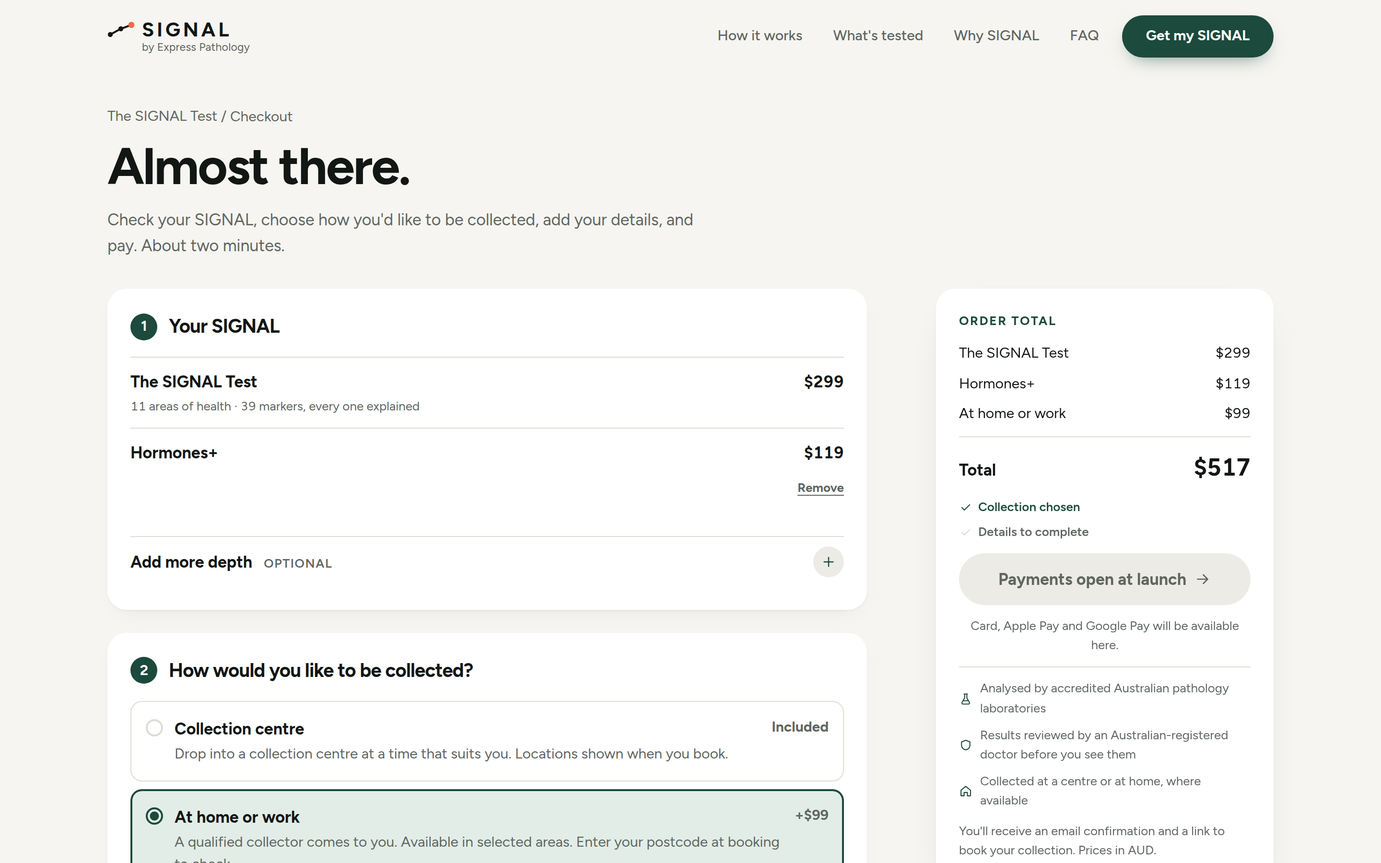
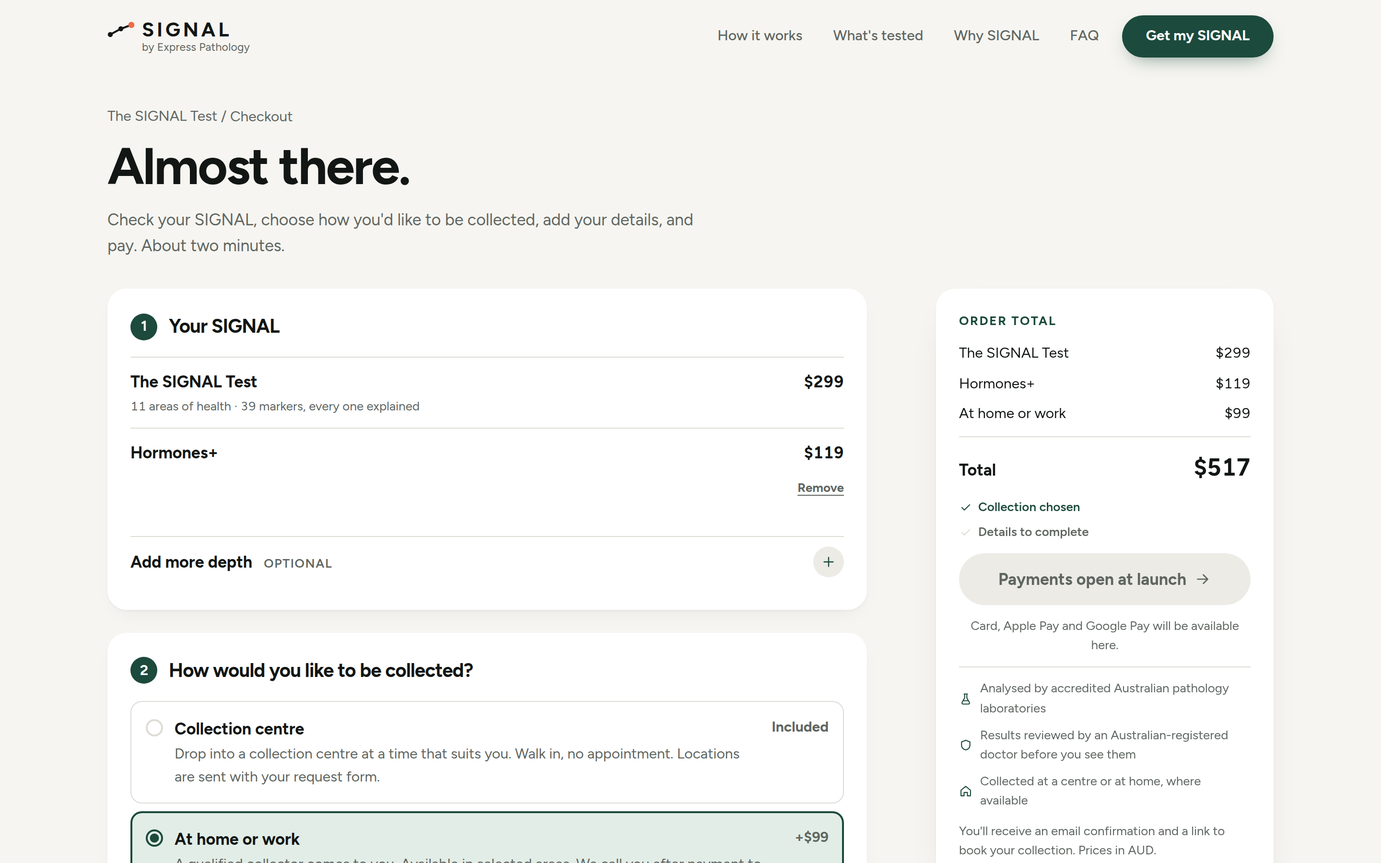
Launch operations: walk-in collection, internal order emails, legal entity
- Collection is walk-in at launch: participating centres accept the request
  form without an appointment, so the order page, confirmation email,
  journey steps, FAQs, quiz and /men copy now send customers to the
  Express Pathology locations page instead of promising a booking link.
  Home or workplace visits are arranged by phone within one business day.
  NEXT_PUBLIC_BOOKING_URL still switches the "Book my collection" CTA on
  if a booking system is introduced.
- Every paid order emails an internal copy to ORDER_NOTIFY_EMAIL (falls
  back to OPS_ALERT_EMAIL) with patient details, items, collection method,
  request-form status, a Stripe link and the form attached. Home visits
  and held forms are flagged in the subject as actions.
- Legal entity: Express Pathology Pty Ltd, ABN from the ABR, support and
  privacy email, New South Wales. Registered address still to fill.

Claude-Session: https://claude.ai/code/session_01CjgrVakohwrtTz92CBzn2N

Changed region(s): [[0.0938, 0.8711, 0.625, 1.0]]

diff --git a/src/lib/email/order-confirmation.ts b/src/lib/email/order-confirmation.ts
@@ -1,5 +1,5 @@
 import { getCollectionMethod } from "@/config/collection";
-import { bookingUrlFor } from "@/config/booking";
+import { bookingUrlFor, walkIn } from "@/config/booking";
 import { legalEntity } from "@/config/legal/entity";
 import { pathologyConfig } from "@/config/pathology";
 import { postPurchaseOffer } from "@/config/retest-offer";
@@ -22,7 +22,7 @@ export interface ConfirmationInput {
 
 const esc = (s: string) => s.replace(/[&<>"]/g, (c) => ({ "&": "&amp;", "<": "&lt;", ">": "&gt;", '"': "&quot;" })[c]!);
 
-/** Plain, short, no images: what was bought, how to book, the retesting offer link, what happens next. */
+/** Plain, short, no images: what was bought, where to get collected, the retesting offer link, what happens next. */
 export function orderConfirmationEmail(i: ConfirmationInput): { subject: string; html: string; text: string } {
   const booking = bookingUrlFor(i.orderId);
   const collection = i.collectionMethodId ? getCollectionMethod(i.collectionMethodId).name : "Collection";
@@ -35,7 +35,11 @@ export function orderConfirmationEmail(i: ConfirmationInput): { subject: string;
     i.formAttached || i.formUrl
       ? `1. Your pathology request form is ${i.formAttached ? "attached to this email" : "ready to download"}${i.formUrl ? ` (${i.formUrl})` : ""}. ${pathologyConfig.collection.bring}`
       : "1. Our team is preparing your pathology request form and will email it to you within one business day. You need it before your collection.",
-    `2. Book your ${collection.toLowerCase()}.${booking ? ` ${booking}` : " We'll email your booking link shortly."}`,
+    booking
+      ? `2. Book your ${collection.toLowerCase()}. ${booking}`
+      : i.collectionMethodId === "mobile"
+        ? `2. ${walkIn.mobile.note}`
+        : `2. ${walkIn.centre.note} Find your nearest centre: ${walkIn.locationsUrl}`,
     fasting ? `3. Before collection: ${fasting}` : "",
     `${fasting ? 4 : 3}. Your results and the doctor's review arrive in your dashboard in around 7 days.`,
   ].filter(Boolean);
@@ -54,7 +58,7 @@ export function orderConfirmationEmail(i: ConfirmationInput): { subject: string;
     <table style="width:100%;border-collapse:collapse;margin:0 0 20px">${i.lines.map((l) => `<tr><td style="padding:6px 0;border-top:1px solid #dedcd5">${esc(l.label)}</td><td style="padding:6px 0;border-top:1px solid #dedcd5;text-align:right">${formatAUD(l.priceCents)}</td></tr>`).join("")}<tr><td style="padding:8px 0;border-top:1px solid #121614;font-weight:700">Paid</td><td style="padding:8px 0;border-top:1px solid #121614;text-align:right;font-weight:700">${formatAUD(i.amountCents)}</td></tr></table>
     <h2 style="font-size:18px;margin:0 0 8px">What happens next</h2>
     <ol style="margin:0 0 20px;padding-left:20px;color:#121614">${steps.map((s) => `<li style="margin:0 0 8px">${esc(s.replace(/^\d+\. /, ""))}</li>`).join("")}</ol>
-    ${booking ? `<p style="margin:0 0 20px"><a href="${esc(booking)}" style="display:inline-block;background:#1c4a3c;color:#fff;text-decoration:none;padding:12px 20px;border-radius:999px;font-weight:700">Book my collection</a></p>` : ""}
+    ${booking ? `<p style="margin:0 0 20px"><a href="${esc(booking)}" style="display:inline-block;background:#1c4a3c;color:#fff;text-decoration:none;padding:12px 20px;border-radius:999px;font-weight:700">Book my collection</a></p>` : i.collectionMethodId !== "mobile" ? `<p style="margin:0 0 20px"><a href="${esc(walkIn.locationsUrl)}" style="display:inline-block;background:#1c4a3c;color:#fff;text-decoration:none;padding:12px 20px;border-radius:999px;font-weight:700">${esc(walkIn.centre.cta)}</a></p>` : ""}
     ${i.formUrl ? `<p style="margin:0 0 20px"><a href="${esc(i.formUrl)}" style="font-weight:700;color:#1c4a3c">Download your pathology request form (PDF)</a></p>` : ""}
     ${deadline ? `<div style="border:2px solid #1c4a3c;border-radius:12px;padding:16px;margin:0 0 20px"><p style="margin:0 0 6px;font-weight:700">Automatic Retesting: ${esc(postPurchaseOffer.headline.replace("{refund}", "the plan discount"))}</p><p style="margin:0 0 10px;color:#5f6661">Choose a retesting rhythm and we refund the discount on this order to your card. Available until ${esc(deadline)}.</p><a href="${esc(i.orderUrl)}" style="font-weight:700;color:#1c4a3c">See the offer</a></div>` : ""}
     <p style="margin:0;color:#5f6661;font-size:13px">Questions? Reply to this email. ${esc(legalEntity.tradingName)}</p>

diff --git a/src/lib/email/order-notification.ts b/src/lib/email/order-notification.ts
@@ -1,0 +1,65 @@
+import "server-only";
+import { walkIn } from "@/config/booking";
+import { formatAUD } from "@/lib/money";
+import { sendEmail } from "./send";
+
+/**
+ * Internal copy of every paid order, sent to ORDER_NOTIFY_EMAIL (falls back
+ * to OPS_ALERT_EMAIL). This is the operations record until the orders
+ * dashboard exists: who ordered, what, how they are being collected, and the
+ * request form as attached. Home visits say so in the subject because the
+ * team has to call the customer.
+ */
+export interface OrderNotification {
+  reference: string;
+  orderId: string;
+  stripeUrl: string;
+  paidAt: Date;
+  amountCents: number;
+  lines: { label: string; priceCents: number }[];
+  collectionLabel: string;
+  isMobile: boolean;
+  patient: { name: string; email: string; phone: string; dob: string; sex: string; address: string };
+  formStatus: string;
+  form: Uint8Array | null;
+  retestPlan?: string;
+}
+
+export async function sendOrderNotification(n: OrderNotification): Promise<void> {
+  const to = process.env.ORDER_NOTIFY_EMAIL || process.env.OPS_ALERT_EMAIL;
+  if (!to) return;
+  const when = new Intl.DateTimeFormat("en-AU", { dateStyle: "medium", timeStyle: "short", timeZone: "Australia/Sydney" }).format(n.paidAt);
+  const action = n.isMobile ? `ACTION: home/workplace visit. Call the customer within ${walkIn.mobile.callWithin} to arrange a time.` : "Walk-in collection: no action needed unless the form is held.";
+  const held = n.formStatus !== "attached" ? `ACTION: request form ${n.formStatus}. The customer has NOT received a form. Fix and send manually.` : "";
+  const lines = [
+    `New order ${n.reference} · ${when}`,
+    "",
+    action, held, "",
+    "Patient",
+    `  ${n.patient.name}`,
+    `  DOB ${n.patient.dob} · ${n.patient.sex}`,
+    `  ${n.patient.email} · ${n.patient.phone}`,
+    `  ${n.patient.address}`,
+    "",
+    "Order",
+    ...n.lines.map((l) => `  ${l.label}  ${formatAUD(l.priceCents)}`),
+    `  Paid  ${formatAUD(n.amountCents)}`,
+    `  Collection: ${n.collectionLabel}`,
+    n.retestPlan ? `  Automatic Retesting: ${n.retestPlan}` : "",
+    `  Request form: ${n.formStatus}`,
+    "",
+    `Stripe: ${n.stripeUrl}`,
+  ].filter((l) => l !== "" || true).filter((l, i, a) => !(l === "" && a[i - 1] === ""));
+  const text = lines.join("\n");
+  const esc = (s: string) => s.replace(/[&<>]/g, (c) => ({ "&": "&amp;", "<": "&lt;", ">": "&gt;" })[c]!);
+  const subject = `${n.isMobile ? "HOME VISIT · " : ""}${held ? "FORM HELD · " : ""}New order ${n.reference} · ${n.patient.name} · ${n.collectionLabel}`;
+  try {
+    await sendEmail({
+      to, subject, text,
+      html: `<pre style="font-family:ui-monospace,Menlo,monospace;font-size:13px;white-space:pre-wrap;line-height:1.5">${esc(text).replace(/(ACTION:[^\n]*)/g, '<b style="color:#c8102e">$1</b>')}</pre>`,
+      attachments: n.form ? [{ filename: `SIGNAL-request-${n.reference}.pdf`, content: n.form }] : undefined,
+    });
+  } catch (err) {
+    console.error("[order-notification] failed", err);
+  }
+}

diff --git a/src/app/order/[orderId]/page.tsx b/src/app/order/[orderId]/page.tsx
@@ -7,7 +7,7 @@ import { RetestOffer } from "@/components/order/RetestOffer";
 import { Button } from "@/components/ui/Button";
 import { Container } from "@/components/ui/Container";
 import { Icon } from "@/components/ui/Icon";
-import { bookingUrlFor } from "@/config/booking";
+import { bookingUrlFor, walkIn } from "@/config/booking";
 import { getCollectionMethod } from "@/config/collection";
 import { pathologyConfig } from "@/config/pathology";
 import { getOrderForPage } from "@/lib/orders/get-order";
@@ -43,7 +43,7 @@ export default async function OrderPage({ params, searchParams }: { params: Prom
             <p className={styles.eyebrow}>{order.status === "processing" ? "Payment processing" : "Payment received"} · {order.reference}</p>
             <h1 className={styles.title}>{order.firstName ? `Thanks, ${order.firstName}.` : "Thank you."} Your SIGNAL is ordered.</h1>
             <p className={styles.intro}>
-              {order.emailMasked ? <>A receipt and your booking link are on their way to {order.emailMasked}. </> : null}
+              {order.emailMasked ? <>Your confirmation and request form are on their way to {order.emailMasked}. </> : null}
               Next, take a look at this. It&apos;s open for {postPurchaseOffer.windowHours} hours.
             </p>
           </header>
@@ -69,8 +69,12 @@ export default async function OrderPage({ params, searchParams }: { params: Prom
                 <h2 id="next-title" className={styles.blockTitle}>What happens next</h2>
                 <NextSteps bare current="book" only={["book", "collect", "results"]} />
                 <div className={styles.bookRow}>
-                  {bookingUrlFor(order.id) ? <Button href={bookingUrlFor(order.id)!} ctaId="order_book_collection" location="order">Book my collection <Icon name="arrow" size={18} /></Button> : null}
-                  <p className={styles.bookNote}>{collection ? `You chose: ${collection.name}. ` : ""}{bookingUrlFor(order.id) ? "Pick the time and place that suit you. The link is also in your email." : "Your booking link is on its way by email. Pick the time and place that suit you."}</p>
+                  {bookingUrlFor(order.id) ? (
+                    <Button href={bookingUrlFor(order.id)!} ctaId="order_book_collection" location="order">Book my collection <Icon name="arrow" size={18} /></Button>
+                  ) : order.configuration.collectionMethodId !== "mobile" ? (
+                    <Button href={walkIn.locationsUrl} ctaId="order_find_centre" location="order">{walkIn.centre.cta} <Icon name="arrow" size={18} /></Button>
+                  ) : null}
+                  <p className={styles.bookNote}>{collection ? `You chose: ${collection.name}. ` : ""}{bookingUrlFor(order.id) ? "Pick the time and place that suit you. The link is also in your email." : order.configuration.collectionMethodId === "mobile" ? walkIn.mobile.note : walkIn.centre.note}</p>
                 </div>
               </section>
             </div>

diff --git a/src/app/api/stripe/webhook/route.ts b/src/app/api/stripe/webhook/route.ts
@@ -12,6 +12,8 @@ import { orderTokenSecret, signOrderToken } from "@/lib/orders/token";
 import { pathologyConfig } from "@/config/pathology";
 import { orderReference, requestFormForIntent } from "@/lib/pathology/order-request";
 import { opsAlert } from "@/lib/email/ops-alert";
+import { sendOrderNotification } from "@/lib/email/order-notification";
+import { dobForForm, phoneForForm, SEX_LABEL } from "@/lib/pathology/intent-input";
 import { offerDeadline } from "@/lib/retest/offer";
 import { getStripe } from "@/lib/stripe/server";
 
@@ -55,7 +57,7 @@ export async function POST(req: Request) {
         email: cust?.email ?? pi.receipt_email, fbp: pi.metadata.fbp, fbc: pi.metadata.fbc, gaClientId: pi.metadata.ga_cid,
         clientIp: cust?.metadata?.order_ip, userAgent: cust?.metadata?.order_ua,
       });
-      // Confirmation email with booking link and the time-limited retesting offer.
+      // Confirmation email with the request form, where to get collected, and the time-limited retesting offer.
       const to = cust?.email ?? pi.receipt_email;
       if (to && !pi.metadata.confirmation_sent) {
         const site = process.env.NEXT_PUBLIC_SITE_URL ?? "";
@@ -91,6 +93,19 @@ export async function POST(req: Request) {
         });
         const sent = await sendEmail({ to, ...mail, attachments: form ? [{ filename: `SIGNAL-request-${orderReference(pi.id)}.pdf`, content: form }] : undefined });
         if (sent.sent) await stripe.paymentIntents.update(pi.id, { metadata: { confirmation_sent: sent.id ?? "1" } }).catch(() => undefined);
+        // Internal copy for the operations inbox: the order record until a dashboard exists.
+        const cm = cust?.metadata ?? {};
+        const addr = cust?.address ? [cust.address.line1, cust.address.line2, cust.address.city, cust.address.state, cust.address.postal_code].filter(Boolean).join(", ") : "-";
+        await sendOrderNotification({
+          reference: orderReference(pi.id), orderId: pi.id,
+          stripeUrl: `https://dashboard.stripe.com/${pi.livemode ? "" : "test/"}payments/${pi.id}`,
+          paidAt: new Date(pi.created * 1000), amountCents: pi.amount_received,
+          lines: order.lines.map((l) => ({ label: label(l.kind, l.id), priceCents: l.priceCents })),
+          collectionLabel: order.configuration.collectionMethodId ? getCollectionMethod(order.configuration.collectionMethodId).name : "-",
+          isMobile: order.configuration.collectionMethodId === "mobile",
+          patient: { name: cust?.name ?? "-", email: to, phone: phoneForForm(cust?.phone) || "-", dob: dobForForm(cm.dob) ?? cm.dob ?? "-", sex: SEX_LABEL[cm.sex ?? ""] ?? cm.sex ?? "-", address: addr },
+          formStatus, form,
+        });
       }
       break;
     }

diff --git a/src/config/funnel/men.ts b/src/config/funnel/men.ts
@@ -102,7 +102,7 @@ export const menFunnel = {
     title: "How SIGNAL works, start to finish",
     items: [
       { icon: "calendar", title: "Order online", body: "Pick your panel and any add-ons, pay securely, done in about 3 minutes." },
-      { icon: "tube", title: "Get your blood drawn", body: "Book a partner collection centre, or a mobile nurse where available. Bring photo ID. No referral paperwork." },
+      { icon: "tube", title: "Get your blood drawn", body: "Walk into any partner collection centre with your request form, or have a mobile nurse come to you where available. Bring photo ID. No referral paperwork." },
       { icon: "shield", title: "A doctor reviews your results", body: "An Australian-registered doctor checks for patterns and anything that needs attention, not just individual numbers." },
       { icon: "chart", title: "Get your report and next steps", body: "Your results, the doctor's summary and a written plan, in your dashboard in around 7 days." },
     ] as { icon: "calendar" | "tube" | "shield" | "chart"; title: string; body: string }[],
@@ -239,7 +239,7 @@ export const menFunnel = {
       { q: "What happens if my results are abnormal?", a: "Your report highlights anything outside the expected range and says what to do next. That may mean seeing your GP or a specialist. If something needs prompt attention, we contact you directly." },
       { q: "Will I definitely get medication?", a: "No. SIGNAL is a testing, review and planning service. We never promise medication. Any treatment is only considered separately, by a doctor, and only if it's clinically appropriate." },
       { q: "How long from blood draw to results?", a: "Around 7 days. We email you the moment your report and the doctor's review are ready." },
-      { q: "Where do I go for my blood draw?", a: "You choose a partner collection centre near you when you book. In some areas a mobile nurse can come to your home or work for {homeVisit}." },
+      { q: "Where do I go for my blood draw?", a: "Walk into any partner collection centre near you with your request form, no appointment needed. In some areas a mobile nurse can come to your home or work for {homeVisit}." },
       { q: "Is this a replacement for my GP?", a: "No. SIGNAL gives you proper numbers and a doctor's explanation to act on. Your GP is still your GP, and your report is written so you can take it to them." },
       { q: "Is this suitable for women?", a: "Yes. The SIGNAL Test is the same comprehensive panel for everyone, and the Hormones+ add-on covers markers relevant to women as well as men. This page is written for men because that's who we're starting with." },
     ],

diff --git a/src/config/booking.ts b/src/config/booking.ts
@@ -1,9 +1,29 @@
 /**
- * Collection booking. The booking system lives outside this site (Express
- * Pathology). NEXT_PUBLIC_BOOKING_URL is the base link customers use; the
- * order reference is appended as ?ref= so bookings reconcile to orders.
- * Until it is set, the order page and email say the link is coming.
+ * How a customer gets collected after paying.
+ *
+ * LAUNCH MODEL: walk-in. Participating collection centres accept the request
+ * form without an appointment, so there is no booking system in the loop.
+ * Customers are sent to the Express Pathology locations page. Home or
+ * workplace visits are arranged by phone: the internal order notification
+ * (ORDER_NOTIFY_EMAIL) tells the team to call.
+ *
+ * If a booking system is introduced later, set NEXT_PUBLIC_BOOKING_URL and
+ * the "Book my collection" CTA takes over; the order reference is appended
+ * as ?ref= so bookings reconcile to orders.
  */
 export const bookingBaseUrl = process.env.NEXT_PUBLIC_BOOKING_URL ?? null;
 export const bookingUrlFor = (orderId: string): string | null =>
   bookingBaseUrl ? `${bookingBaseUrl}${bookingBaseUrl.includes("?") ? "&" : "?"}ref=${encodeURIComponent(orderId)}` : null;
+
+export const walkIn = {
+  locationsUrl: "https://expresspathology.com.au/pages/locations",
+  centre: {
+    cta: "Find a collection centre",
+    note: "No appointment needed. Take your request form and photo ID to any participating collection centre, at a time that suits you.",
+  },
+  mobile: {
+    note: "We'll call you within one business day to arrange your home or workplace visit at a time that suits you.",
+    /** How long the team has to make that call. */
+    callWithin: "one business day",
+  },
+};

diff --git a/src/config/journey.ts b/src/config/journey.ts
@@ -16,7 +16,7 @@ export interface JourneyStep {
 
 export const journey: JourneyStep[] = [
   { id: "pay", title: "Choose and pay", body: "Pick your SIGNAL and any add-ons. Pay by card, Apple Pay or Google Pay. No account needed first.", timing: "Today", timingStatus: "verified" },
-  { id: "book", title: "Book your collection", body: "Your pathology request form is emailed to you. Choose a collection centre or, where available, a home or workplace visit at a time that suits you.", timing: "Straight after payment", timingStatus: "verified" },
+  { id: "book", title: "Get your request form", body: "It's emailed to you straight away. Take it to any participating collection centre, no appointment needed. If you chose a home or workplace visit, we call you to arrange a time.", timing: "Straight after payment", timingStatus: "verified" },
   { id: "collect", title: "Get collected", body: "Bring photo ID and your request form. A qualified collector takes one sample. A few minutes, then get on with your day.", timing: "At your chosen time", timingStatus: "verified" },
   { id: "results", title: "Results in your dashboard", body: "Reviewed before you see them, every marker explained in plain language.", timing: "Around 7 days after collection", timingStatus: "verified" },
   { id: "retest", title: "Retest and track", body: "Book a retest any time, or set up Automatic Retesting and watch what changes.", timing: "When you're ready", timingStatus: "verified" },

diff --git a/src/components/home/PostcodeChecker.tsx b/src/components/home/PostcodeChecker.tsx
@@ -67,7 +67,7 @@ function Result({ valid, mobile, centres, postcode }: CoverageResult & { postcod
       <div className={cx(styles.card, styles.yes)}>
         <span className={styles.badge}><Icon name="check" size={16} /> Mobile collection available</span>
         <p className={styles.headline}>Good news: a collector can come to you in {postcode}.</p>
-        <p className={styles.body}>Choose a home or workplace visit when you book. Collection centres are also available if you prefer.</p>
+        <p className={styles.body}>Choose a home or workplace visit at checkout. Collection centres are also available if you prefer.</p>
         <Button href="/find-my-test" size="sm" ctaId="postcode_find_my_test" location="postcode_checker">Find my test</Button>
       </div>
     );
@@ -78,7 +78,7 @@ function Result({ valid, mobile, centres, postcode }: CoverageResult & { postcod
       <p className={styles.headline}>Mobile collection isn&apos;t available in {postcode} yet.</p>
       <p className={styles.body}>
         You can still get tested at a collection centre.
-        {centres.length > 0 ? " Nearby options include:" : " Centre options are shown when you book."}
+        {centres.length > 0 ? " Nearby options include:" : " Centre locations are sent with your request form."}
       </p>
       {centres.length > 0 ? (
         <ul className={styles.centres}>

diff --git a/src/config/faq.ts b/src/config/faq.ts
@@ -23,13 +23,13 @@ export const faqItems: FaqItem[] = [
     question: "Where can I get collected?",
     status: "draft",
     // TODO-VERIFY launch regions and centre list.
-    answer: "At a collection centre, with locations shown when you book. Home or workplace collection is available in selected areas; you can check your postcode at booking.",
+    answer: "At any participating collection centre, no appointment needed: bring your request form and photo ID. Locations are at expresspathology.com.au/pages/locations. Home or workplace collection is available in selected areas and arranged by phone after payment.",
   },
   {
     id: "home",
     question: "Can someone come to my home?",
     status: "draft",
-    answer: "In selected areas, yes: a qualified collector from Express Pathology comes to your home or workplace at a time you choose. Availability is confirmed at booking.",
+    answer: "In selected areas, yes: a qualified collector from Express Pathology comes to your home or workplace at a time you choose. We call you after payment to arrange it and refund the visit fee if we can't reach your address.",
   },
   { id: "timing", question: "How long do results take?", status: "todo-clinical" },
   { id: "review", question: "Who reviews my results?", status: "todo-clinical" },

diff --git a/src/config/checkout-fields.ts b/src/config/checkout-fields.ts
@@ -40,7 +40,7 @@ export const detailsCopy = {
     help: "As recorded at birth. Laboratories use it to apply the right reference ranges to your results. It doesn't need to match your gender.",
   },
   gender: { label: "Gender", optional: "optional", help: "How you'd like us to refer to you. Never shared with advertising platforms." },
-  email: { label: "Email", help: "Your confirmation, booking link and results notification go here." },
+  email: { label: "Email", help: "Your confirmation, request form and results notification go here." },
   phone: { label: "Mobile", help: "For booking reminders and if the collector needs to reach you." },
   address: {
     legend: "Home address",
@@ -51,7 +51,7 @@ export const detailsCopy = {
     state: "State",
     postcode: "Postcode",
   },
-  postcodeOnly: { label: "Postcode", help: "So we can show collection centres near you when you book." },
+  postcodeOnly: { label: "Postcode", help: "So we can show collection centres near you." },
   consent: {
     terms: "I agree to the Terms of Service and Privacy Policy, and to my details being shared with the laboratory and collection team to carry out my test.",
     marketing: "Send me occasional updates and offers from SIGNAL by email. You can unsubscribe any time.",

diff --git a/tests/request-form-contract.test.ts b/tests/request-form-contract.test.ts
@@ -1,6 +1,7 @@
 import assert from "node:assert/strict";
 import { test } from "node:test";
 import { inflateSync } from "node:zlib";
+import type Stripe from "stripe";
 import { emptyCustomer, normaliseCustomer, validateCustomer, type CustomerDetails } from "../src/lib/checkout/customer";
 import { customerParams, encodeOrderMetadata } from "../src/lib/orders/metadata";
 import { quoteConfiguration } from "../src/lib/pricing";
@@ -32,7 +33,7 @@ function stripeObjects(details: CustomerDetails, addonIds: string[], collection:
   const params = customerParams(record);
   const cfg = { productId: "signal", addonIds, collectionMethodId: collection } as const;
   const quote = quoteConfiguration(cfg);
-  const customer = { id: "cus_test", object: "customer", ...params, metadata: { ...params.metadata, order_ip: "1.2.3.4", order_ua: "ua" } };
+  const customer = { id: "cus_test", object: "customer", ...params, metadata: { ...params.metadata, order_ip: "1.2.3.4", order_ua: "ua" } } as unknown as Stripe.Customer;
   const pi = { id: "pi_3TestABCDEFGH1234", created: 1_790_000_000, metadata: encodeOrderMetadata(cfg, quote.lines, {}, "evt"), customer };
   return { pi, record };
 }

diff --git a/src/config/collection.ts b/src/config/collection.ts
@@ -23,7 +23,7 @@ export const collectionMethods: CollectionMethod[] = [
     name: "Collection centre",
     short: "At a centre",
     description: "Drop into a collection centre at a time that suits you.",
-    availabilityNote: "Locations shown when you book.",
+    availabilityNote: "Walk in, no appointment. Locations are sent with your request form.",
     priceDeltaCents: 0,
     status: "live",
   },
@@ -32,7 +32,7 @@ export const collectionMethods: CollectionMethod[] = [
     name: "At home or work",
     short: "At home",
     description: "A qualified collector comes to you.",
-    availabilityNote: "Available in selected areas. Enter your postcode at booking to check.",
+    availabilityNote: "Available in selected areas. We call you after payment to arrange a time, and refund the visit fee if we can't reach your address.",
     priceDeltaCents: 9900, // AUD, set 2 Oct 2026
     status: "limited",
   },
